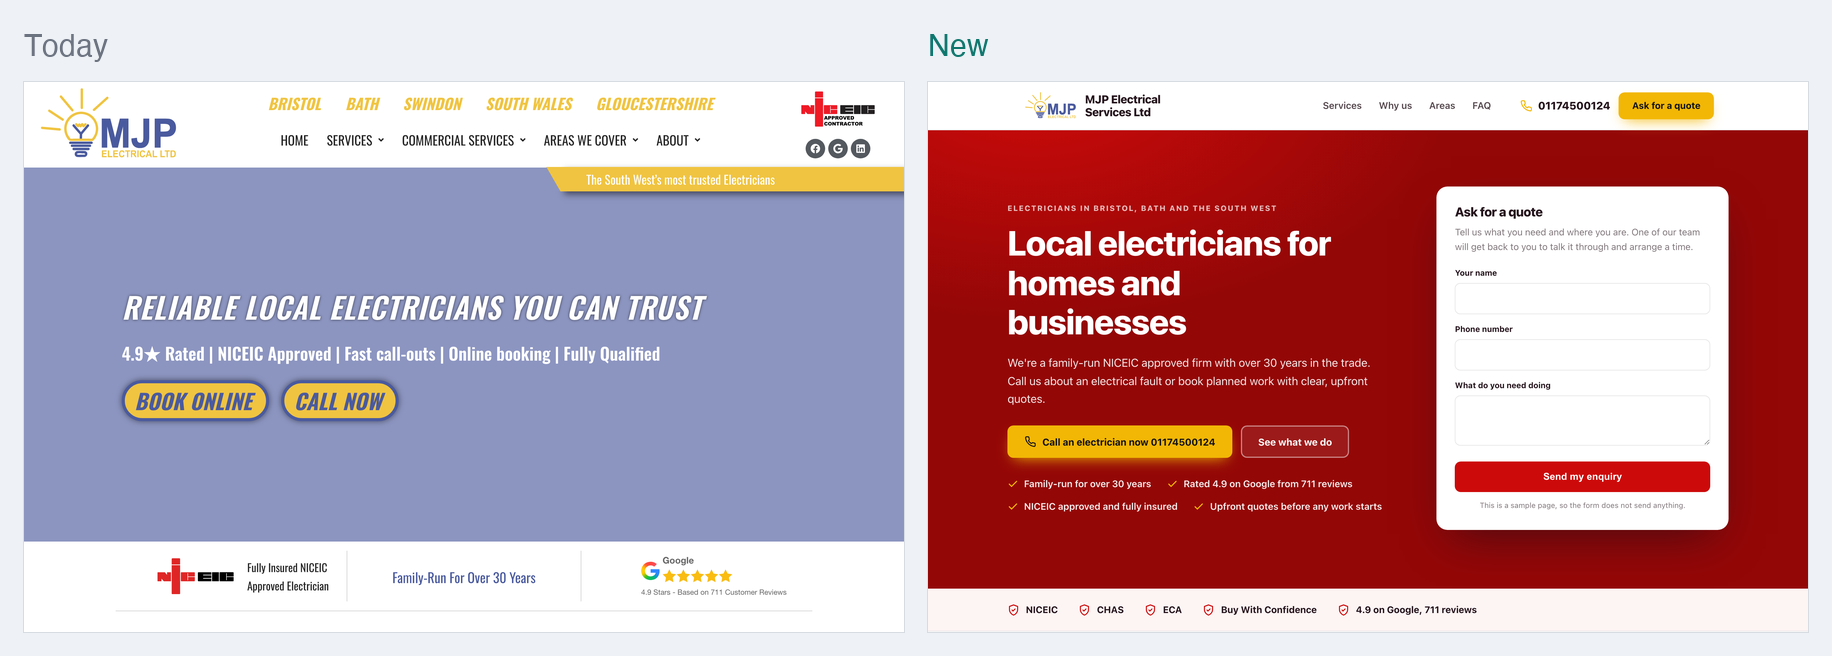
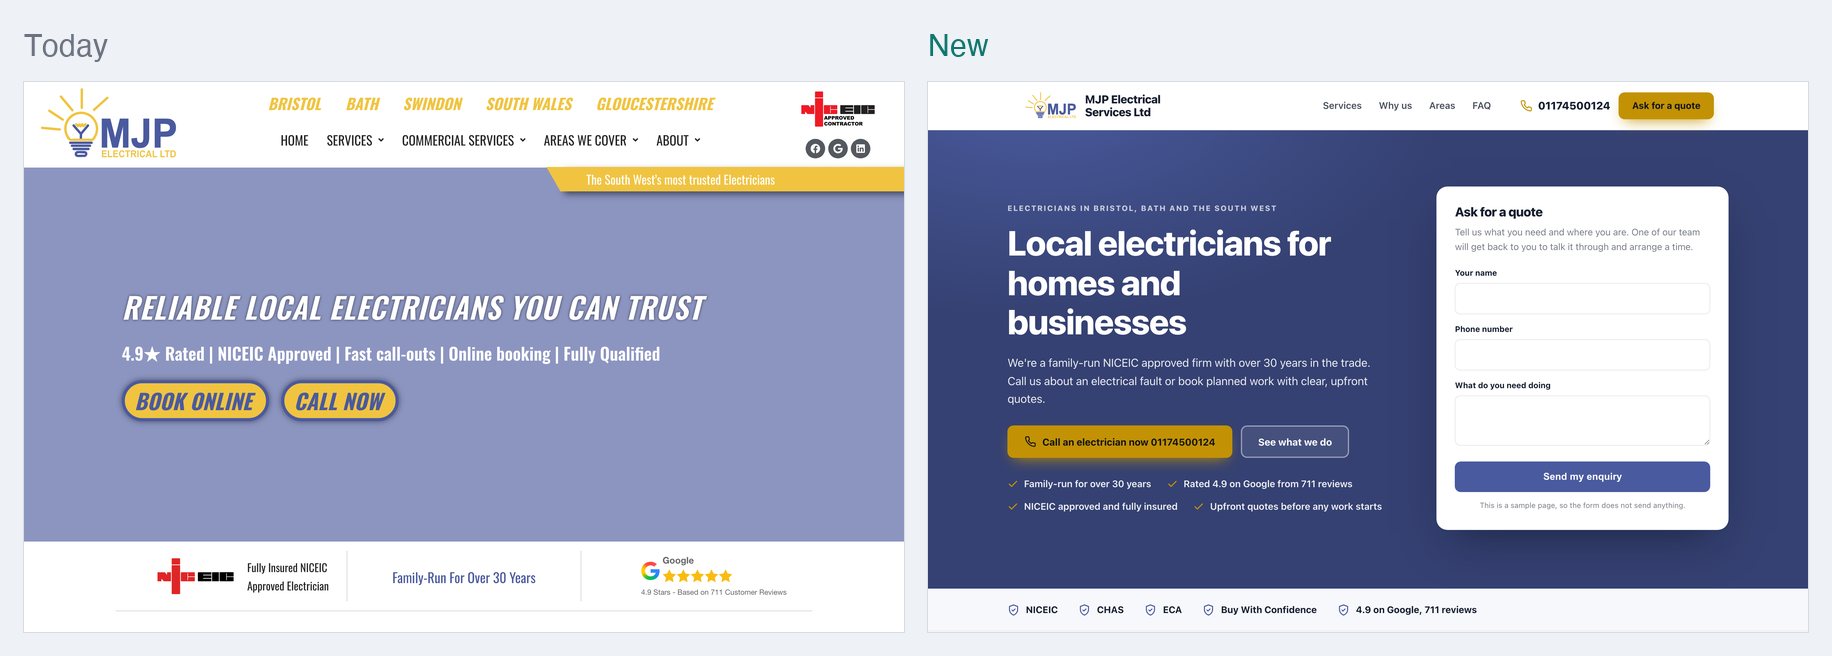
One page sample for MJP Electrical Services Ltd

Changed region(s): [[0.4978, 0.122, 0.9956, 0.9146]]

diff --git a/docs/adcf2dfdaf/index.html b/docs/adcf2dfdaf/index.html
@@ -16,16 +16,16 @@
 <meta name="twitter:card" content="summary_large_image">
 <style>
 :root{
-  --primary:#cd0a0a;
-  --primary-dark:#940707;
-  --primary-light:#fae6e6;
-  --accent:#f2b705;
-  --accent-dark:#c69604;
-  --ink:#26151d;
-  --muted:#81777c;
-  --line:#e5e3e4;
+  --primary:#4a5a9e;
+  --primary-dark:#354172;
+  --primary-light:#edeef5;
+  --accent:#c29204;
+  --accent-dark:#9f7803;
+  --ink:#161f2f;
+  --muted:#787d86;
+  --line:#e3e4e6;
   --paper:#ffffff;
-  --wash:#fdf4f4;
+  --wash:#f7f8fb;
   --on-primary:#ffffff;
   --on-accent:#141414;
   --radius:14px;
@@ -81,9 +81,9 @@ p{margin:0}
 .hero-bg{position:absolute;inset:0}
 .hero-bg img{width:100%;height:100%;object-fit:cover}
 .hero-bg::after{content:"";position:absolute;inset:0;
-  background:linear-gradient(100deg, #940707f7 0%, #940707e8 42%, #cd0a0ab8 100%)}
+  background:linear-gradient(100deg, #354172f7 0%, #354172e8 42%, #4a5a9eb8 100%)}
 .hero-plain{position:absolute;inset:0;
-  background:radial-gradient(1100px 620px at 12% -10%, #cd0a0a 0%, #940707 62%)}
+  background:radial-gradient(1100px 620px at 12% -10%, #4a5a9e 0%, #354172 62%)}
 .hero-in{position:relative;display:grid;grid-template-columns:1.15fr .85fr;gap:56px;
   align-items:center;padding:92px 0 96px}
 .hero .eyebrow{color:#fff;opacity:.72}
